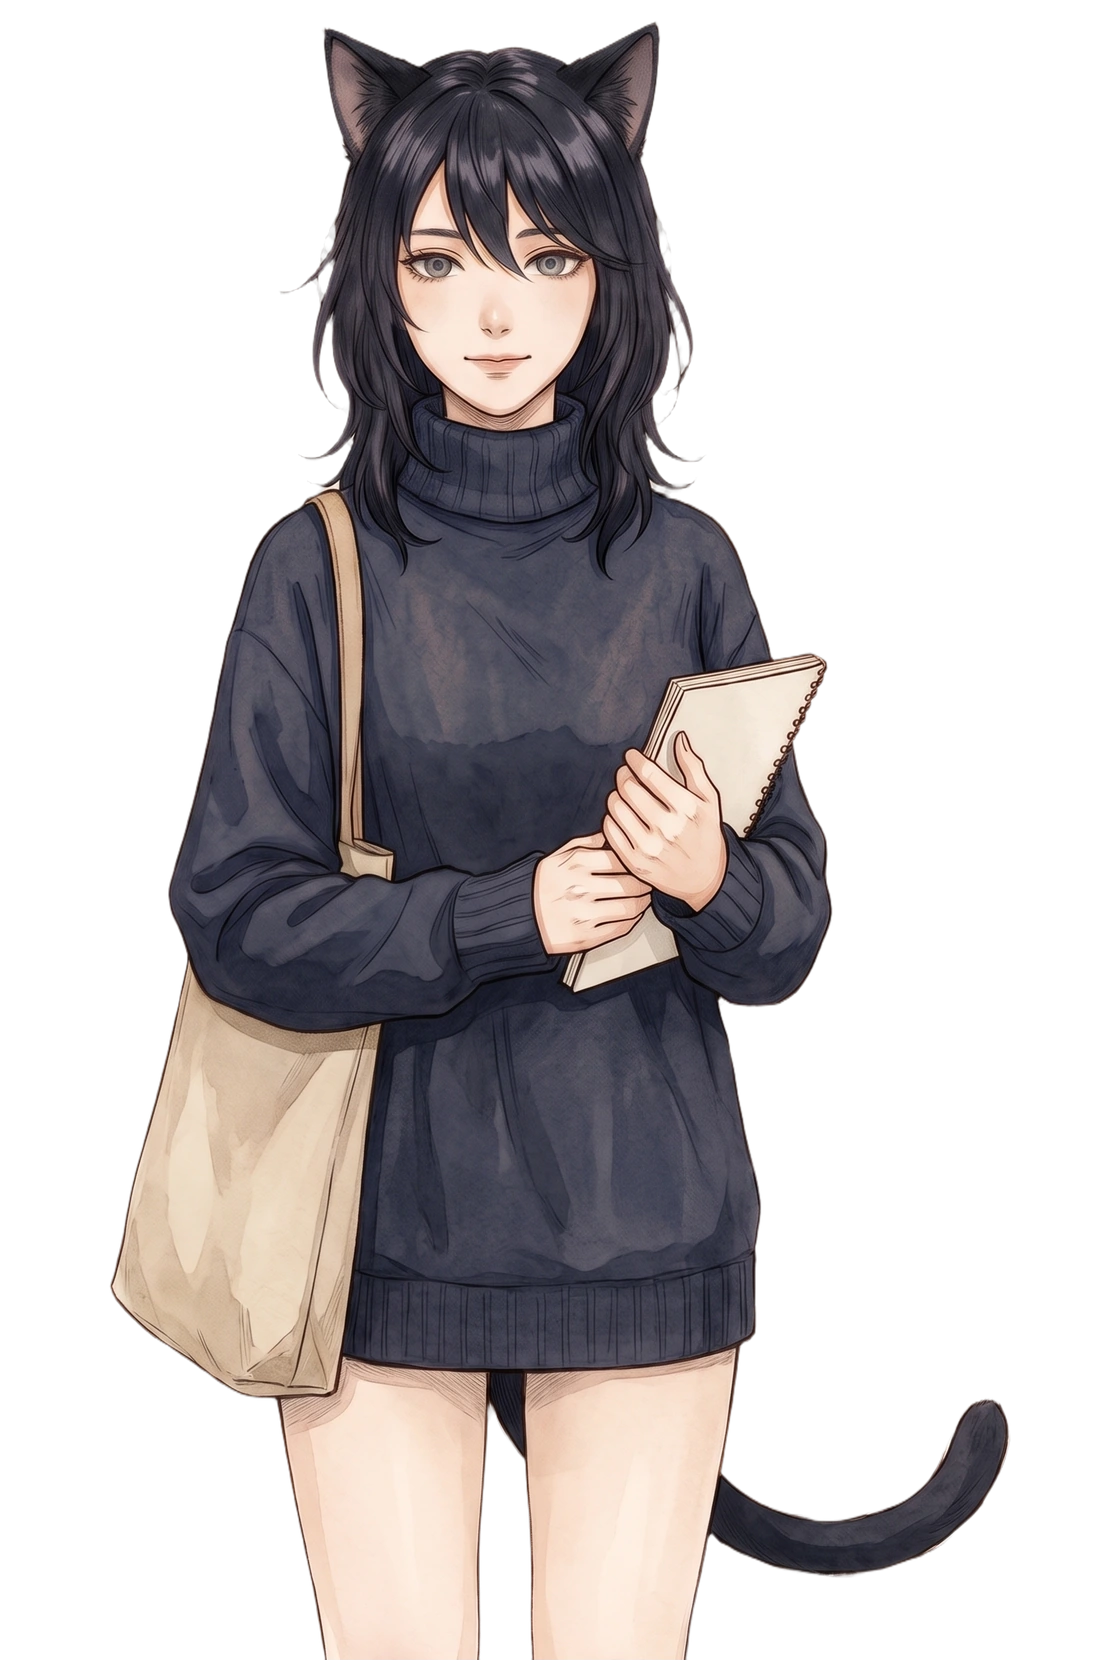
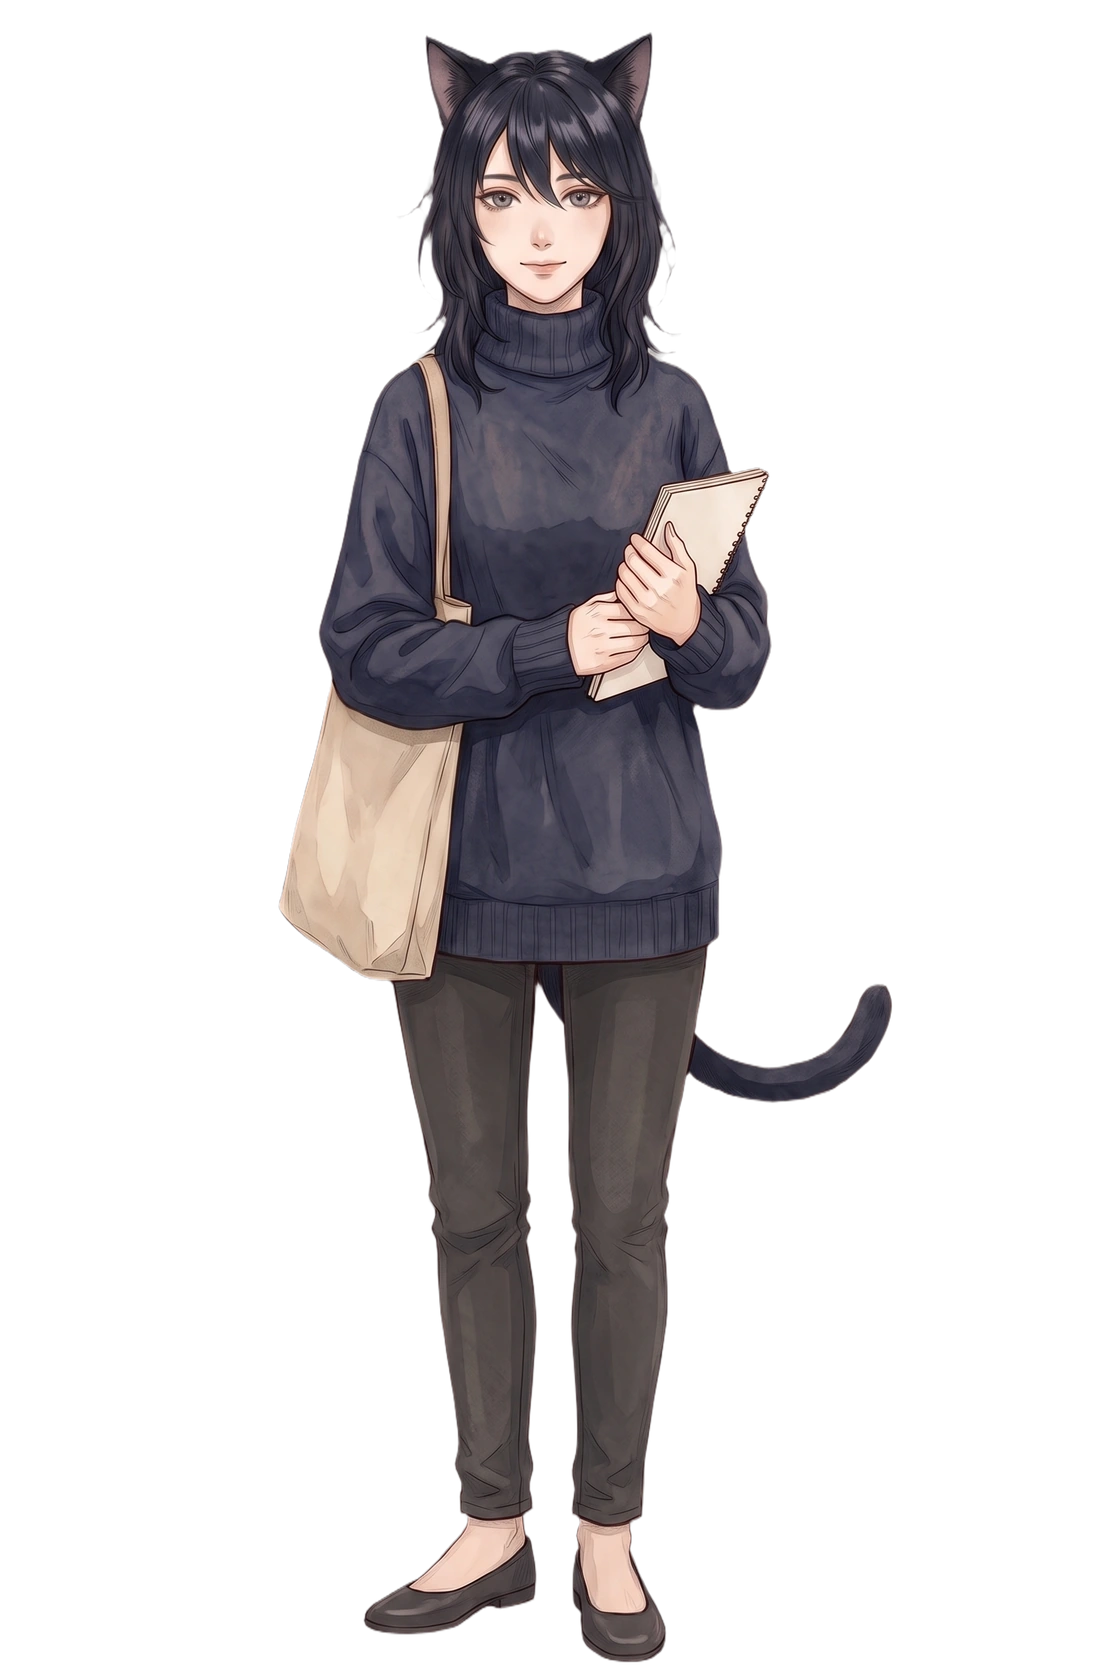
Redraw 7 CGs to match cover faces; full-body Claude and Cursor portraits

diff --git a/src/ui/styles.css b/src/ui/styles.css
@@ -543,8 +543,8 @@ button.select-person.is-resting .select-portrait { filter: grayscale(1); opacity
    按每人实测的眼线、头长与脸中心统一缩放定位，让四人头一样大、视线同高。
    --eye / --head / --cx 为占立绘高（宽）的比例；容器用 --frame-eye / --frame-head 指定眼线与头长占容器高的比例。 */
 img[data-asset="codex"] { --eye: .125; --head: .11; --cx: .44; }
-img[data-asset="claude"] { --eye: .19; --head: .195; --cx: .45; }
-img[data-asset="cursor"] { --eye: .20; --head: .19; --cx: .445; }
+img[data-asset="claude"] { --eye: .132; --head: .15; --cx: .47; }
+img[data-asset="cursor"] { --eye: .117; --head: .15; --cx: .485; }
 img[data-asset="workbuddy"] { --eye: .11; --head: .13; --cx: .355; }
 .scene-art .character-art,
 .person-avatar .select-portrait,

diff --git a/CHANGELOG.md b/CHANGELOG.md
@@ -2,6 +2,11 @@
 
 当前本地开发版本为 **v0.3.0**。日期表示本地变更记录，不表示 Git 标签、远程发布或线上部署；制作流程、源码实现与最终验收分别记录。
 
+## 全身立绘与事件 CG 重绘（visual-v10）— 2026-09-28
+
+- **立绘**：Claude、Cursor 换成头到鞋的全身版（与 Codex、WorkBuddy 同样取景），与封面服装一致；BiRefNet-HR-matting 去背景，1120×1680 RGBA WebP。`src/ui/styles.css` 中 claude / cursor 的 `--eye`、`--head`、`--cx` 按新图重测，codex / workbuddy 未动。
+- **事件 CG**：重绘 `codex_shallow`、`claude_shallow`、`cursor_shallow`、`workbuddy_shallow`、`codex_greedy`、`claude_greedy`、`workbuddy_greedy`：脸对齐封面、日系画风、腮红减淡；Codex greedy 改为傲娇得意的坏笑，Claude greedy 为含泪得意地比“五”，WorkBuddy greedy 赤裸上身、体格精瘦。成品 2560×1440 RGB WebP。旧图存于 `_archive/2026-09-28/src-assets/`。详见 `docs/design/art-log.md` 第 8 节。
+
 ## 结局 CG（visual-v9）— 2026-09-27
 
 - **六张结局 CG**：`ending_hunger`、`ending_household`、`ending_codex`、`ending_claude`、`ending_cursor`、`ending_workbuddy`，温馨画面、全员穿戴整齐；经 AI（nano-banana pro）生成，12 个服务任务（6 首稿、6 次重画或局部编辑），成品 2560×1440 RGB WebP（quality 93、method 6）。审看记录见 `docs/design/art-log.md` 第 7 节。
